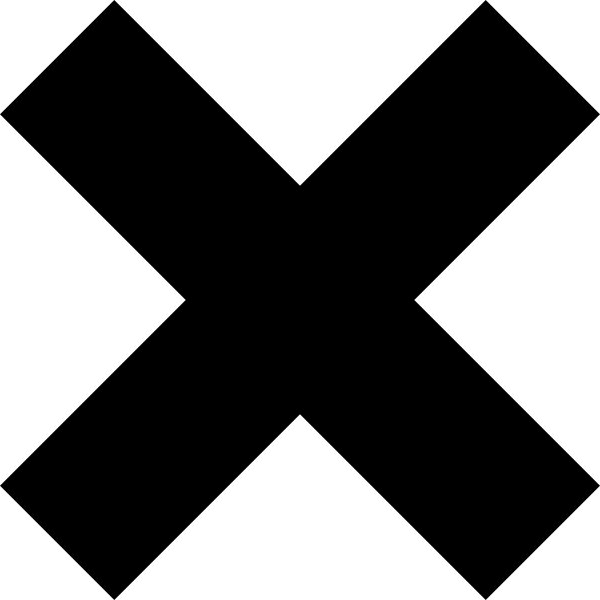
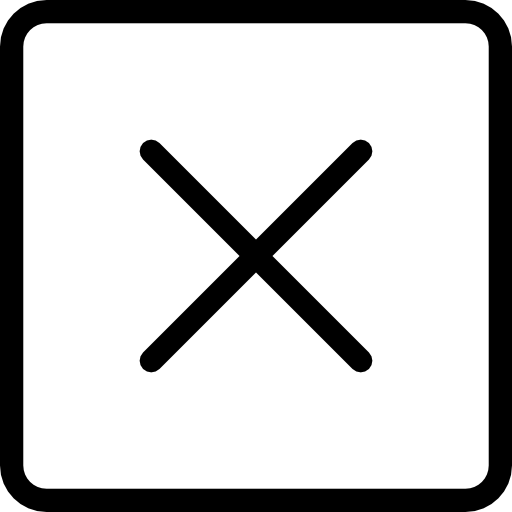
adicionando funcao de adicionar e mobile

diff --git a/styles/addStyle.css b/styles/addStyle.css
@@ -1,0 +1,134 @@
+.addMenu {
+    position: fixed;
+    display: flex;
+    justify-content: center;
+    width: 100%;
+    height: 100%;
+    top: -100%;
+    overflow: hidden;
+    transition: all 1s;
+}
+
+.addMenu .menuContent {
+    width: 720px;
+    height: 400px;
+    display: flex;
+    flex-direction: column;
+    justify-content: space-between;
+    background-color: rgba(193, 192, 192, 1);
+    align-items: center;
+    border-radius: 50px;
+    z-index: 2;
+    box-shadow: 5px 5px rgba(0,0,0,0.5);
+}
+
+.addMenu .menuMid {
+    height: 90%;
+    display: flex;
+    flex-direction: column;
+    justify-content: space-evenly;
+    align-items: center;
+}
+
+.addMenu .menuTop{
+    display: flex;
+    flex-direction: row;
+    justify-content: space-between;
+    font-size: 20px;
+    width: 90%;
+    margin-top: 20px;
+}
+
+.addMenu .menuTop p{
+    font-size: 20px;
+    margin-left: 50px;
+}
+
+.addMenu .menuTop img{
+    width: 20px;
+    height: 20px;
+    cursor: pointer;
+}
+
+.addMenu #sensorOff {
+    position: absolute;
+    width: 100%;
+    height: 100%;
+}
+
+.addMenu #colorTarefaAdd{
+    width: 100px;
+    height: 50px;
+    cursor: pointer;
+}
+
+.addMenu #nomeTarefaAdd {
+    width: 400px;
+    height: 40px;
+    border-radius: 20px;
+    font-size: 30px;
+    overflow: hidden;
+    text-align: center;
+}
+
+.addMenu #detalhesTarefaAdd {
+    width: 400px;
+    height: 100px;
+    border-radius: 20px;
+    font-size: 30px;
+    overflow: hidden;
+    text-align: center;
+}
+
+.addMenu #criarTarefa {
+    height: 60px;
+    width: 150px;
+    border-radius: 50px;
+    font-size: 20px;
+    cursor: pointer;
+}
+
+@media only screen and (min-height:1080px) and (min-width:720px) {
+    .addMenu .menuContent {
+        width: 920px;
+        height: 800px;
+    }
+
+    .addMenu #nomeTarefaAdd {
+        width: 500px;
+        height: 60px;
+    }
+
+    .addMenu #criarTarefa {
+        height: 120px;
+        width: 240px;
+        font-size: 40px;
+    }
+    
+    .addMenu #detalhesTarefaAdd {
+        width: 500px;
+        height: 100px;
+        font-size: 50px;
+    }
+    
+    .addMenu #dataTarefaAdd {
+        width: 250px;
+        height: 50px;
+        font-size: 30px;
+    }
+
+    .addMenu #colorTarefaAdd {
+        width: 250px;
+        height: 50px;
+    }
+
+    .addMenu .menuTop p{
+        font-size: 30px;
+    }
+
+    .addMenu .menuTop img{
+        width: 70px;
+        height: 70px;
+    }
+    
+}

diff --git a/index.html b/index.html
@@ -6,10 +6,12 @@
         <link rel="sortcut icon" href="images/lapizButton.png" type="image/x-icon" />
         <link rel="stylesheet" type="text/css" href="styles/headerStyle.css" />
         <link rel="stylesheet" type="text/css" href="styles/indexStyle.css" />
+        <link rel="stylesheet" type="text/css" href="styles/addStyle.css" />
         <link rel="stylesheet" type="text/css" href="styles/containerTarefasStyle.css" />
         <title>Organizador de tarefas.</title>
     </head>
     <body>
+        <img id="plusButton" src="images/plusButton.png" />
         <header>
             <h1 id="text_title">Organizador<br> de tarefas</h1>
             <div id="separadorHeader"></div>
@@ -35,6 +37,23 @@
             </div>
         </div>
 
+        <div class="addMenu">
+            <div class="menuContent">
+                <div class="menuTop">
+                    <p>Adicionar uma nova tarefa</p>
+                    <img src="images/xButton.png"/>
+                </div>
+                <div class="menuMid">
+                    <input type="text" id="nomeTarefaAdd" placeholder="Nome da tarefa">
+                    <input type="text" id="detalhesTarefaAdd" placeholder="Detalhes">
+                    <input id="dataTarefaAdd" type="date">
+                    <input id="colorTarefaAdd" type="color">
+                    <button id="criarTarefa">Criar Tarefa</button>
+                </div>
+            </div>
+            <div id="sensorOff"></div>
+        </div>
+        <script type="text/javascript" src="scripts/addTarefa.js"></script>
         <script type="text/javascript" src="scripts/token.js"></script>
         <script type="text/javascript" src="scripts/atualizar.js"></script>
         <script type="text/javascript" src="scripts/requestAPI.js"></script>

diff --git a/scripts/addTarefa.js b/scripts/addTarefa.js
@@ -1,0 +1,61 @@
+var plusButton = document.getElementById('plusButton');
+var criarTarefa = document.getElementById("criarTarefa");
+var menuSensor = document.getElementById("sensorOff");
+var menu = document.querySelector(".addMenu");
+var header = document.querySelector("header");
+var nomeTarefaAdd = document.getElementById('nomeTarefaAdd');
+var detalhesTarefaAdd = document.getElementById('detalhesTarefaAdd');
+var dataTarefaAdd = document.getElementById('dataTarefaAdd');
+var colorTarefaAdd = document.getElementById('colorTarefaAdd');
+var xButton = document.querySelector(".addMenu .menuTop img");
+
+function getNome(){
+    return nomeTarefaAdd.value;
+}
+
+function getColor(){
+    return colorTarefaAdd.value;
+}
+
+function getDetalhes(){
+    return detalhesTarefaAdd.value;
+}
+
+function getColor(){
+    return colorTarefaAdd.value;
+}
+
+function getData(){
+    return dataTarefaAdd.value;
+}
+
+function limparCampos(){
+    nomeTarefaAdd.value = "";
+    detalhesTarefaAdd.value = "";
+}
+
+function showAddDisplay(){
+    if (!isMenuOpened()){
+        menu.style.top = header.offsetHeight+"px";
+    }
+    else {
+        menu.style.top = "-100%";
+    }
+}
+
+function isMenuOpened(){
+    return (menu.style.top != "-100%" & menu.style.top != "");
+}
+
+function enter(event){
+    if (isMenuOpened() & event.keyCode == 13){
+        criarTarefa.click();
+    }
+}
+
+document.addEventListener("keyup", (event) => enter(event));
+
+menuSensor.addEventListener('click', () => showAddDisplay());
+criarTarefa.addEventListener('click', () => criarTarefa(getNome(), getData(), getColor(), getDetalhes()));
+plusButton.addEventListener('click', () => showAddDisplay());
+xButton.addEventListener('click', () => showAddDisplay());

diff --git a/styles/containerTarefasStyle.css b/styles/containerTarefasStyle.css
@@ -5,8 +5,7 @@
 }
 
 .tarefa {
-    flex: 0 1 200px;
-    border-width: 1px;
+    border-width: 2px;
     border-style: solid;
     border-color: black;
     border-radius: 10px;
@@ -15,11 +14,12 @@
     border-left-color: rgb(0, 0, 0);
     border-top-left-radius: 20px;
     border-bottom-left-radius: 20px;
-    width: 200px;
-    height: 200px;
+    width: 250px;
+    height: 170px;
     margin: 30px;
     display: flex;
     flex-direction: column;
+    padding: 5px;
 }
 
 .superiorTarefa {
@@ -33,6 +33,7 @@
     flex: 1;
     font-size: 25px;
     font-style: oblique;
+    font-family: 'Franklin Gothic Medium', 'Arial Narrow', Arial, sans-serif;
     text-align: left;
     margin-left: 5px;
 }
@@ -59,4 +60,26 @@
 .concluirTarefa {
     width: 30px;
     height: 30px;
+}
+
+@media only screen and (min-height:1080px) and (min-width:720px) {
+    .tarefa {
+        width: 500px;
+        height: 340px;
+        border-left-width: 80px;
+        padding: 20px;
+    }
+    .titleTarefa {
+        font-size: 80px;
+    }
+    .detalhesTarefa {
+        font-size: 50px;
+    }
+    .dataTarefa {
+        font-size: 25px;
+    }
+    .concluirTarefa {
+        width: 70px;
+        height: 70px;
+    }
 }

diff --git a/styles/headerStyle.css b/styles/headerStyle.css
@@ -28,7 +28,6 @@ header {
     border-width: 10px;
     border-color: aqua;
     padding: 10px;
-    max-height: 65px;
 }
 
 #div_select_token {
@@ -60,10 +59,34 @@ header {
 
 @media only screen and (min-height:1080px) and (min-width:720px) {
     header {
-        height: 100px;
+        height: 200px;
+        flex-direction: column;
+        height: fit-content;
     }
-    header h1{
-        font-size: 40px;
+    #text_title{
+        font-size: 50px;
+        padding: 10px;
+        border-width: 10px;
+    }
+    #separadorHeader {
+        width: 0;
+        height: 0;
+    }
+    #div_select_token {
+        margin: 10px;
+        width: 50%;
+        height: 50%;
+        border-width: 0;
+    }
+    #text_box_select_token {
+        width: 500px;
+        height: 100px;
+        font-size: 50px;
+    }
+    #button_select_token {
+        width: 500px;
+        height: 100px;
+        font-size: 50px;
     }
 
 }

diff --git a/scripts/requestAPI.js b/scripts/requestAPI.js
@@ -7,6 +7,29 @@ function deleteTarefa(id){
     }
 }
 
+function criarTarefa(nome, data, cor, detalhes) {
+    let tarefaNova = {
+        "color": cor,
+        "data": data,
+        "detalhes": detalhes,
+        "nome": nome
+    }
+    if (data == null || data == "") {
+        alert("Data inválida");
+        return;
+    }
+    
+    var request = new XMLHttpRequest();
+    request.open('POST', 'https://organizadordetarefas.herokuapp.com/tarefa/?token='+readToken());
+    request.setRequestHeader("Content-Type", "application/json;charset=UTF-8");
+    request.send(JSON.stringify(tarefaNova));
+    request.onload = function() {
+        atualizarTarefas();
+    }
+    showAddDisplay();
+    limparCampos();
+}
+
 function mostraTarefas() {
     var request = new XMLHttpRequest();
     request.open('GET', 'https://organizadordetarefas.herokuapp.com/tarefa/all/?token='+readToken());

diff --git a/styles/indexStyle.css b/styles/indexStyle.css
@@ -14,3 +14,26 @@ body {
     width: fit-content;
     top: 95%;
 }
+
+#plusButton{
+    position: fixed;
+    width: 50px;
+    height: 50px;
+    top: 100%;
+    margin-top: -80px;
+    left: 100%;
+    margin-left: -80px;
+    cursor: pointer;
+}
+
+@media only screen and (min-height:1080px) and (min-width:720px) {
+    #text_token_atual {
+        font-size: 40px;
+    }
+    #plusButton{
+        width: 100px;
+        height: 100px;
+        margin-top: -150px;
+        margin-left: -150px;
+    }
+}
